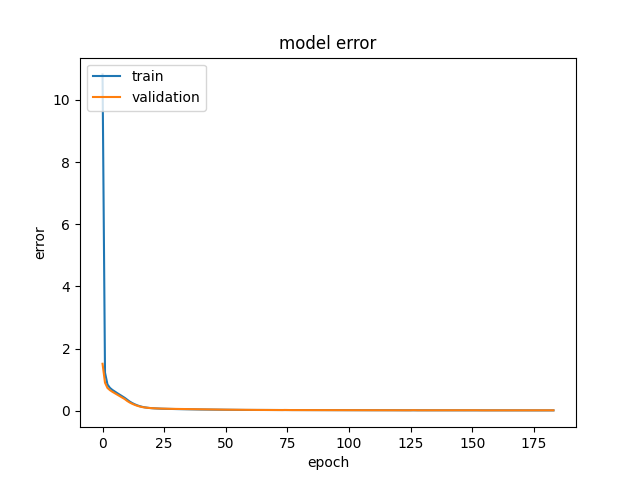
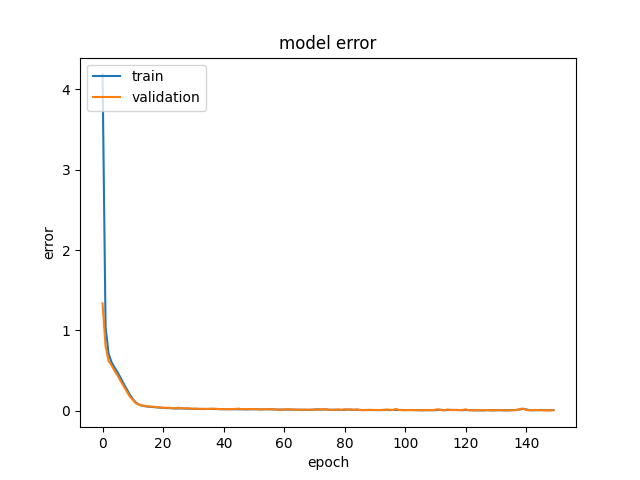
adiciona plot da posicao

diff --git a/invkine_dl.py b/invkine_dl.py
@@ -129,7 +129,7 @@ angle_ranges
 """### Generate Dataset with N samples randomly"""
 
 # n samples
-N = 100
+N = 50
 
 thetas1 = np.linspace(angle_ranges[0, 0], angle_ranges[0, 1], N)
 thetas2 = np.linspace(angle_ranges[1, 0], angle_ranges[1, 1], N)
@@ -150,7 +150,7 @@ pprint(positions.shape)
 plt.figure(figsize=(16, 8))
 plt.scatter(positions[:, 0], positions[:, 1], label='nuvem de pontos')
 plt.savefig('nuvem_de_pontos.png')
-plt.show()
+# plt.show()
 
 """### Data split"""
 
@@ -177,8 +177,8 @@ plt.show()
 def build_model(input_dim, output_dim):
 
     model = Sequential()
-    model.add(Dense(units=10, activation='relu', input_dim=input_dim))
-    model.add(Dense(units=20, activation='relu'))
+    model.add(Dense(units=32, activation='relu', input_dim=input_dim))
+    model.add(Dense(units=64, activation='relu'))
     model.add(Dense(units=output_dim))
 
     return model
@@ -193,11 +193,11 @@ model_params = {
 model = build_model(positions.shape[1], thetas.shape[1])
 model.summary()
 
-opt = tf.keras.optimizers.Adam(learning_rate=0.001)
+opt = tf.keras.optimizers.Adam(learning_rate=0.005)
 
 # monitoring loss with ealty stop
 early_stop = tf.keras.callbacks.EarlyStopping(
-    monitor='loss', patience=10, min_delta=0.0001)
+    monitor='loss', patience=20, min_delta=0.0001)
 
 model.compile(
     optimizer=opt,
@@ -239,5 +239,30 @@ pred_position = get_position(y_hat)
 
 print(f"Position given by theta label {true_position}")
 print(f"Position given by theta pred  {pred_position}")
+
+
+def plot_arm(theta, theta_hat):
+    # get the position of the end effector
+    position = get_position(theta)
+    position_hat = get_position(theta_hat)
+
+    # plot the arm
+    fig = plt.figure(figsize=(10, 10))
+    ax = fig.add_subplot(111, projection='3d')
+    ax.set_xlim(-10, 10)
+    ax.set_ylim(-10, 10)
+    ax.set_zlim(-10, 10)
+    ax.scatter(position[0], position[1], position[2], c='r', marker='o')
+    ax.scatter(position_hat[0], position_hat[1],
+               position_hat[2], c='b', marker='o')
+    ax.set_xlabel('X')
+    ax.set_ylabel('Y')
+    ax.set_zlabel('Z')
+    plt.savefig('arm.png')
+    plt.show()
+
+
+# plot the arm in the original position
+plot_arm(y_test[0], y_hat)
 
 """#Testando algumas possibilidades"""
